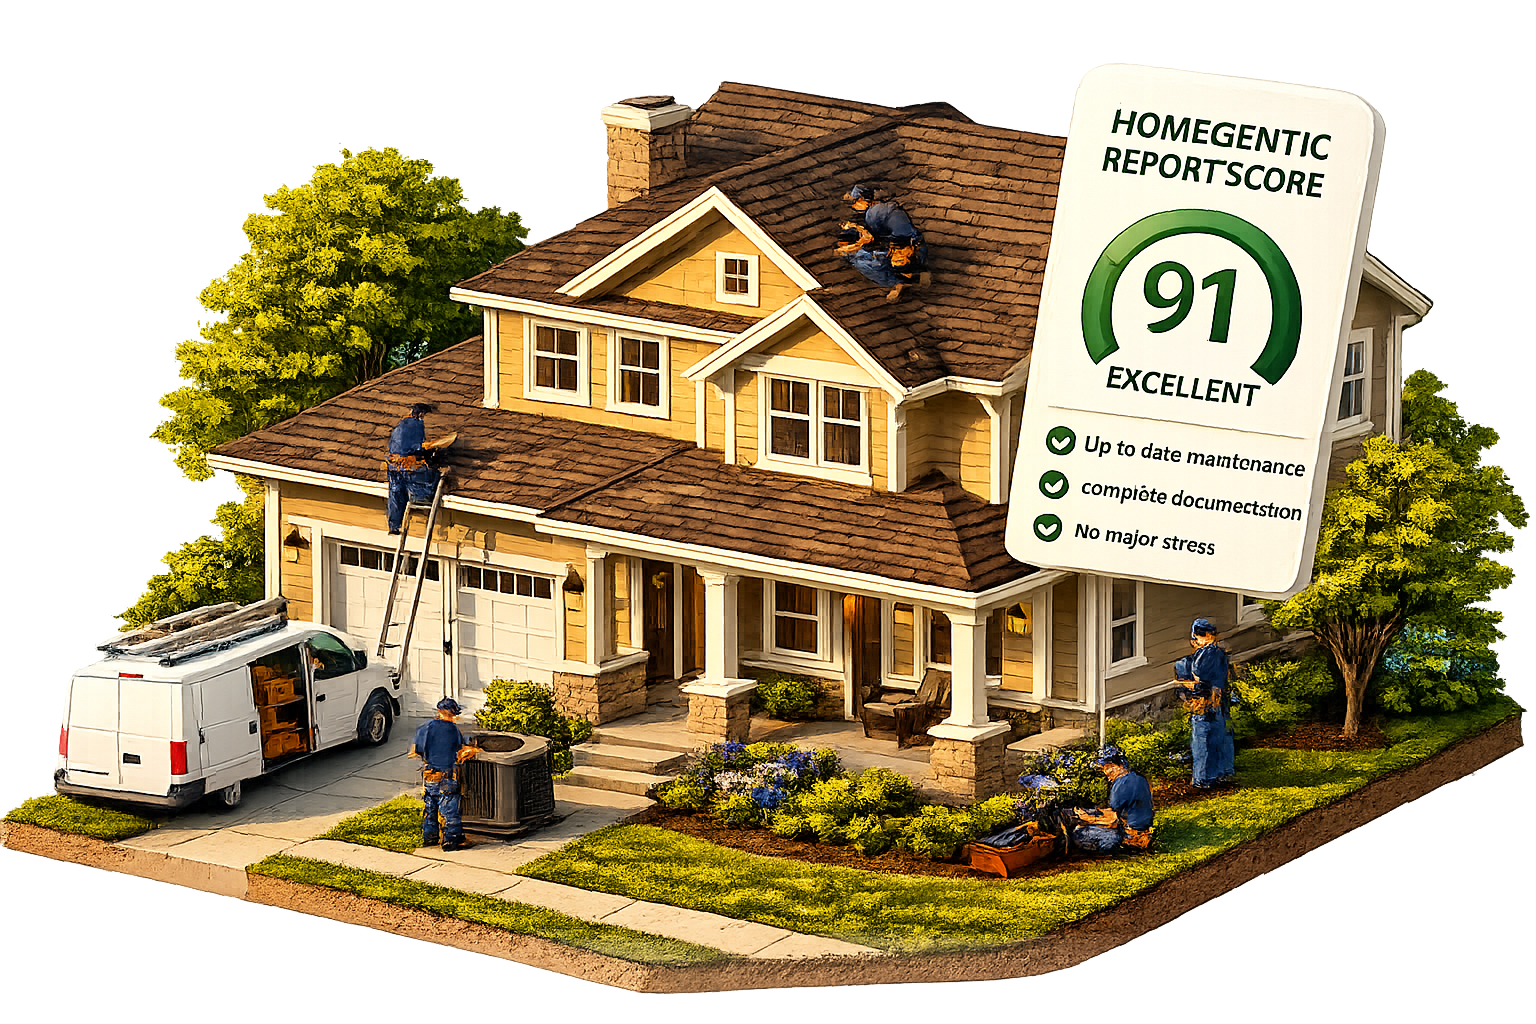
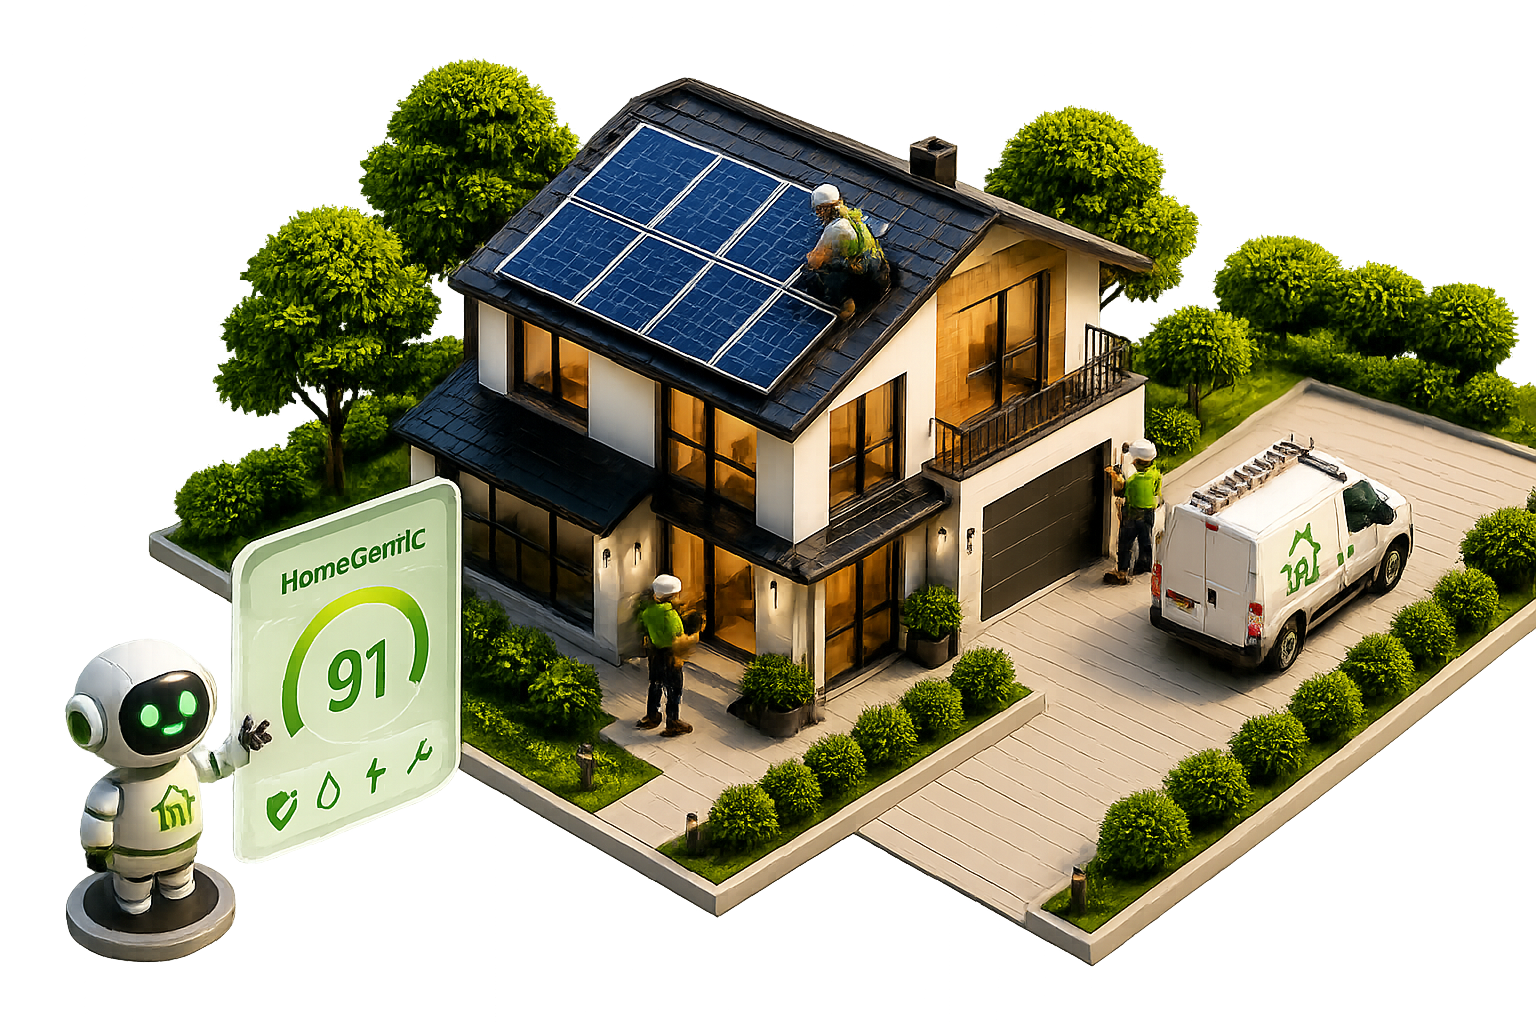
feat(landing): replace report mock UI with sample_report image, match tcard style

diff --git a/frontend/src/pages/landingStyles.ts b/frontend/src/pages/landingStyles.ts
@@ -388,15 +388,19 @@ export const CSS = `
   .hfl-compete-footer { padding: 14px 26px; background: var(--sage-light); border-top: 1px solid var(--sage-mid); font-size: 11px; color: var(--plum-mid); font-weight: 600; display: flex; align-items: center; gap: 8px; }
 
   /* ── REPORT CTA ───────────────────────────────────────────────────────── */
-  .hfl-report {
-    padding: 0 56px 100px;
-    display: grid; grid-template-columns: 1fr 1fr; gap: 60px; align-items: center;
+  .hfl-report { padding: 0 56px 100px; }
+  .hfl-report-card {
+    display: flex; align-items: stretch; min-height: 480px;
+    border: 1px solid var(--rule); overflow: hidden; background: white;
+  }
+  .hfl-report-img-col { flex: 0 0 60%; }
+  .hfl-report-img-col img { width: 100%; height: 100%; object-fit: cover; display: block; }
+  .hfl-report-body {
+    flex: 1; padding: 52px 48px; display: flex; flex-direction: column; justify-content: center;
   }
   .hfl-rc-label { font-size: 11px; font-weight: 700; letter-spacing: 3px; text-transform: uppercase; color: var(--plum); margin-bottom: 18px; }
   .hfl-report h2 { color: var(--plum); margin-bottom: 18px; }
   .hfl-report h2 em { color: var(--sage); font-style: italic; font-weight: 300; }
-  .hfl-report > div:first-child { order: 2; }
-  .hfl-report > div:last-child { order: 1; }
   .hfl-report p { font-size: 16px; color: rgba(46,37,64,0.7); line-height: 1.7; margin-bottom: 36px; }
   .hfl-rc-actions { display: flex; gap: 14px; flex-wrap: wrap; }
   .hfl-rc-btn {
@@ -411,23 +415,6 @@ export const CSS = `
     font-family: 'Plus Jakarta Sans', sans-serif; transition: background .2s;
   }
   .hfl-rc-ghost:hover { background: rgba(46,37,64,0.14); }
-  .hfl-report-mock { background: white; overflow: hidden; box-shadow: 0 20px 60px rgba(46,37,64,0.18); border: 1px solid var(--rule); }
-  .hfl-mock-top { background: var(--plum); padding: 16px 20px; display: flex; align-items: center; justify-content: space-between; }
-  .hfl-mock-addr { font-family: 'Fraunces', serif; font-size: 15px; color: white; font-weight: 700; }
-  .hfl-mock-badge { background: var(--sage); color: var(--plum); font-size: 10px; font-weight: 700; padding: 4px 10px; border-radius: 100px; letter-spacing: 1px; }
-  .hfl-mock-score { background: var(--sage-light); padding: 14px 20px; display: flex; align-items: center; gap: 14px; }
-  .hfl-mock-num { font-family: 'Fraunces', serif; font-size: 38px; font-weight: 900; color: var(--sage); line-height: 1; }
-  .hfl-mock-score-lbl { font-size: 10px; text-transform: uppercase; letter-spacing: 1px; color: var(--plum-mid); margin-bottom: 6px; }
-  .hfl-mock-bar { height: 8px; background: var(--sage-mid); border-radius: 100px; overflow: hidden; }
-  .hfl-mock-bar-fill { height: 100%; width: 91%; background: linear-gradient(90deg, var(--sage), #A8E8A0); border-radius: 100px; }
-  .hfl-mock-rows { padding: 8px 20px 16px; }
-  .hfl-mock-row { display: flex; align-items: center; justify-content: space-between; padding: 9px 0; border-bottom: 1px solid #F0EDE8; font-size: 12px; }
-  .hfl-mock-row:last-child { border-bottom: none; }
-  .hfl-mock-row-lbl { color: var(--plum-mid); display: flex; align-items: center; gap: 6px; }
-  .hfl-mock-pass { font-weight: 700; color: var(--sage); }
-  .hfl-mock-flag { font-weight: 700; color: #D4843A; }
-  .hfl-mock-info { font-weight: 700; color: var(--plum-mid); }
-  .hfl-mock-footer { padding: 10px 20px 14px; display: flex; align-items: center; gap: 8px; background: var(--sage-light); border-top: 1px solid var(--sage-mid); font-size: 11px; color: var(--plum-mid); font-weight: 600; }
 
   /* ── FEATURE DEEP DIVE ───────────────────────────────────────────────── */
   .hfl-fdd { padding: 0 56px 100px; }
@@ -850,9 +837,11 @@ export const CSS = `
     .hfl-feat-2 .hfl-feat-text { order: 0; }
     .hfl-feat-2 .hfl-feat-visual { order: 0; }
 
-    .hfl-report { padding: 0 24px 64px; grid-template-columns: 1fr; gap: 36px; }
+    .hfl-report { padding: 0 24px 64px; }
     .hfl-report h2 { font-size: 32px; }
-    .hfl-report > div:last-child { display: none; }
+    .hfl-report-card { flex-direction: column; }
+    .hfl-report-img-col { flex: none; width: 100%; max-height: 320px; }
+    .hfl-report-body { padding: 36px 28px; }
 
     .hfl-fdd { padding: 0 24px 64px; }
     .hfl-fdd-inner { padding: 40px 28px; grid-template-columns: 1fr; gap: 36px; }

diff --git a/frontend/src/pages/LandingPage.tsx b/frontend/src/pages/LandingPage.tsx
@@ -392,47 +392,22 @@ export default function LandingPage() {
 
         {/* ── Report CTA ──────────────────────────────────────────────────── */}
         <section id="hfl-report" className="hfl-report">
-          <div>
-            <div className="hfl-rc-label">The HomeGentic Report</div>
-            <h2>Your Home's Verified<br /><em>Biography</em></h2>
-            <p>
-              When it's time to sell, your HomeGentic Report is a tamper-proof document showing
-              every owner, every service, every improvement. Buyers love it. Agents share it.
-              Homes with it sell first.
-            </p>
-            <div className="hfl-rc-actions">
-              <button className="hfl-rc-btn" onClick={() => navigate("/login")}>Generate My HomeGentic</button>
-              <button className="hfl-btn-soft" onClick={() => window.open("/sample-report", "_blank", "noopener,noreferrer")}>View Sample Report</button>
+          <div className="hfl-report-card">
+            <div className="hfl-report-img-col">
+              <img src="/sample_report.png" alt="Sample HomeGentic Report" />
             </div>
-          </div>
-          <div>
-            <div className="hfl-report-mock">
-              <div className="hfl-mock-top">
-                <span className="hfl-mock-addr">327 Keech Street, Daytona Beach FL</span>
-                <span className="hfl-mock-badge">HomeGentic ✓</span>
+            <div className="hfl-report-body">
+              <div className="hfl-rc-label">The HomeGentic Report</div>
+              <h2>Your Home's Verified<br /><em>Biography</em></h2>
+              <p>
+                When it's time to sell, your HomeGentic Report is a tamper-proof document showing
+                every owner, every service, every improvement. Buyers love it. Agents share it.
+                Homes with it sell first.
+              </p>
+              <div className="hfl-rc-actions">
+                <button className="hfl-rc-btn" onClick={() => navigate("/login")}>Generate My HomeGentic</button>
+                <button className="hfl-btn-soft" onClick={() => window.open("/sample-report", "_blank", "noopener,noreferrer")}>View Sample Report</button>
               </div>
-              <div className="hfl-mock-score">
-                <div className="hfl-mock-num">91</div>
-                <div style={{ flex: 1 }}>
-                  <div className="hfl-mock-score-lbl">HomeGentic Property Score</div>
-                  <div className="hfl-mock-bar"><div className="hfl-mock-bar-fill" /></div>
-                </div>
-              </div>
-              <div className="hfl-mock-rows">
-                {[
-                  { label: "📋 Title & Ownership",     val: "Clear ✓",            cls: "hfl-mock-pass" },
-                  { label: "🔨 Permits & Renovations", val: "12 Logged ✓",        cls: "hfl-mock-pass" },
-                  { label: "🔧 Service History",        val: "47 Records ✓",       cls: "hfl-mock-pass" },
-                  { label: "🌿 Recurring Services",     val: "4 Under Contract ✓", cls: "hfl-mock-pass" },
-                  { label: "⚖ Liens & Encumbrances",  val: "None ✓",             cls: "hfl-mock-pass" },
-                ].map((r) => (
-                  <div key={r.label} className="hfl-mock-row">
-                    <span className="hfl-mock-row-lbl">{r.label}</span>
-                    <span className={r.cls}>{r.val}</span>
-                  </div>
-                ))}
-              </div>
-              <div className="hfl-mock-footer">📋 <span>All records independently verified · Shareable link generated</span></div>
             </div>
           </div>
         </section>
